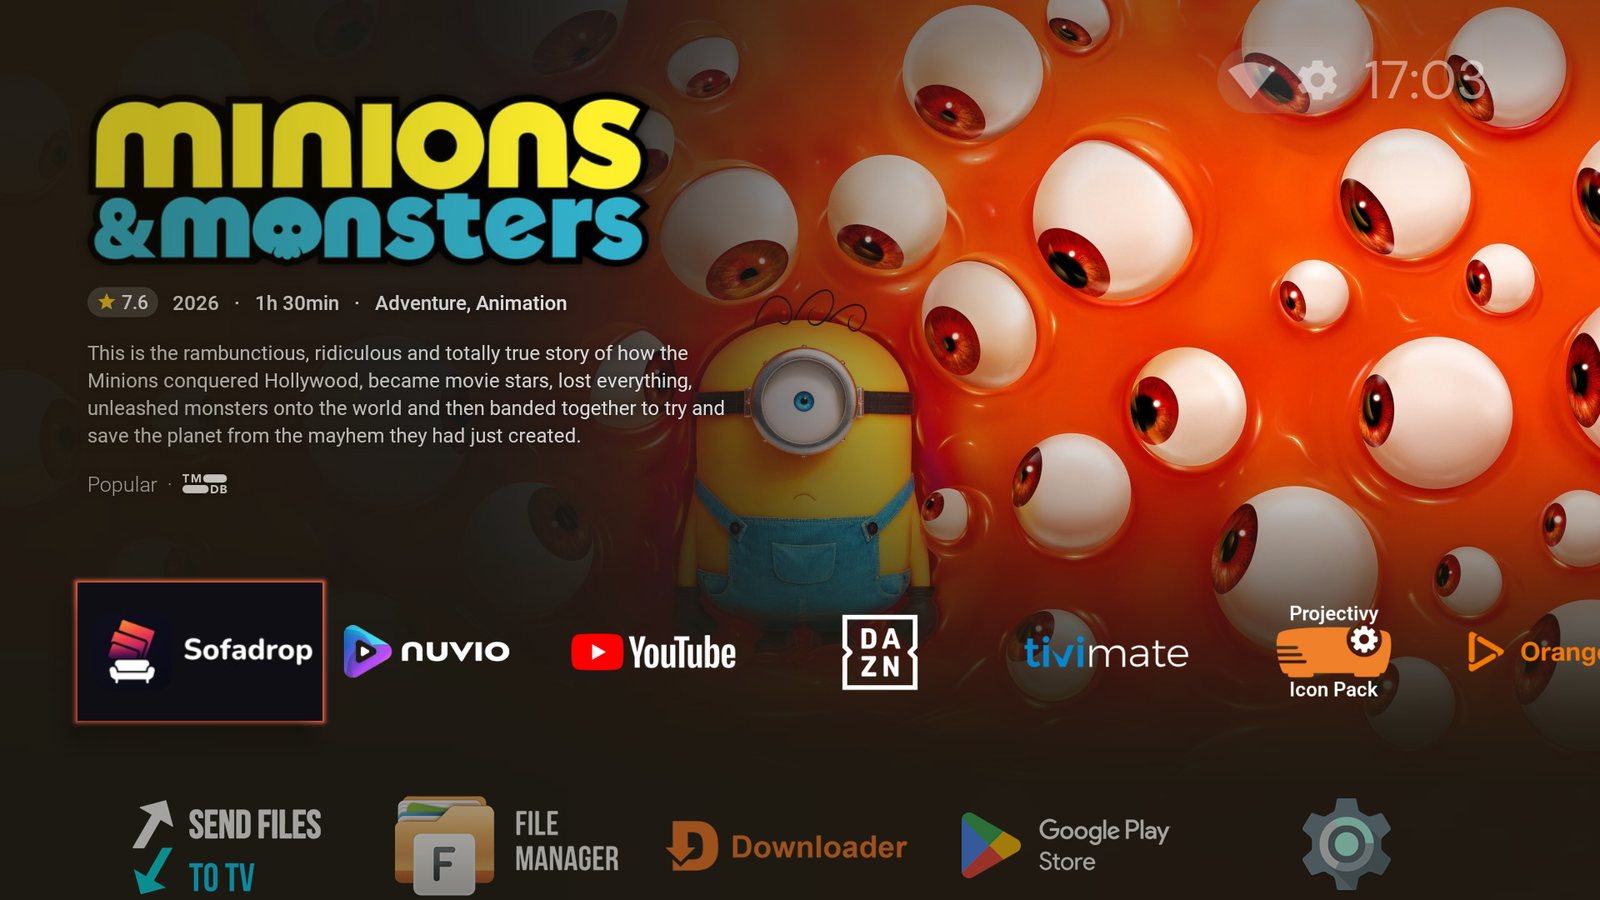
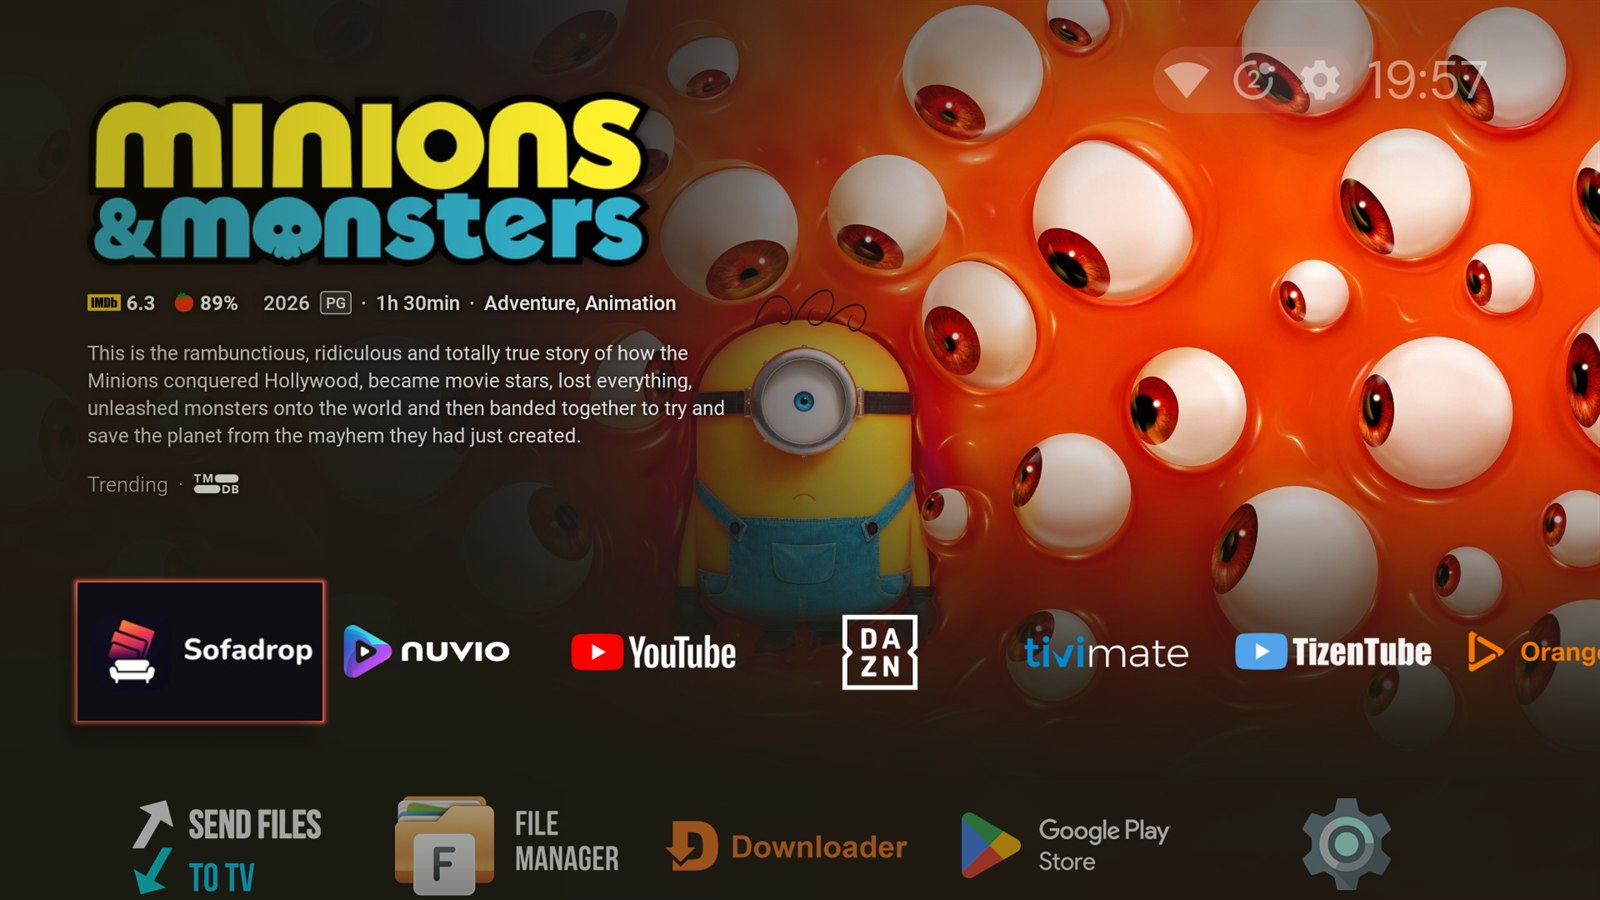
README: new screenshots for 1.1.0
Home screen captures from the Chromecast (Spider-Man, Minions & Monsters,
The Super Mario Galaxy Movie, Mutiny) with the default-like settings, the
settings screen, and the wallpapers rendered by ReadmeImagesTest with the
ratings that need no account (IMDb and Trakt).

diff --git a/app/src/androidTest/java/com/rfmarcos/sofadrop/ReadmeImagesTest.kt b/app/src/androidTest/java/com/rfmarcos/sofadrop/ReadmeImagesTest.kt
@@ -1,0 +1,61 @@
+package com.rfmarcos.sofadrop
+
+import android.graphics.Bitmap
+import androidx.test.ext.junit.runners.AndroidJUnit4
+import androidx.test.platform.app.InstrumentationRegistry
+import org.junit.Assert.assertNotNull
+import org.junit.Test
+import org.junit.runner.RunWith
+import java.io.File
+
+/**
+ * The wallpapers of the README (docs/images/wallpaper_*.jpg) at 1600x900, into files/readme/, with the ratings
+ * that need no account (IMDb from its dataset, Trakt with the app's client id).
+ */
+@RunWith(AndroidJUnit4::class)
+class ReadmeImagesTest {
+
+    @Test
+    fun rendersReadmeWallpapers() {
+        val context = InstrumentationRegistry.getInstrumentation().targetContext
+        Settings.init(context)
+        Settings.regionOverride = ""
+        Settings.style = Settings.STYLE_FULL
+        Settings.titleLanguage = Settings.LANGUAGE_AUTO
+        Settings.synopsisLanguage = Settings.LANGUAGE_AUTO
+        Settings.headerOrder = Settings.HEADER_BLOCKS
+        Settings.headerHidden = emptySet()
+        Settings.minRatings = 2
+        Settings.overviewLines = 4
+        Settings.showProviders = true
+        Settings.showSource = true
+        Settings.sourceFallback = true
+        Settings.ratingSources = listOf(RatingSource.IMDB, RatingSource.TRAKT)
+        val dir = File(context.filesDir, "readme").apply { deleteRecursively(); mkdirs() }
+        val trendingMovies = Sources.TMDB.first { it.key == "tmdb:trending_movies" }
+
+        fun save(name: String, language: String, ref: TitleRef, cast: Boolean = false, change: (WallpaperInfo) -> WallpaperInfo = { it }) {
+            Settings.language = language
+            Settings.showCast = cast
+            val factory = WallpaperFactory(context, 1920)
+            val info = factory.build(ref, source = trendingMovies)
+            assertNotNull(info)
+            val bitmap = factory.render(change(info!!))
+            val scaled = Bitmap.createScaledBitmap(bitmap, 1600, 900, true)
+            File(dir, "$name.jpg").outputStream().use { scaled.compress(Bitmap.CompressFormat.JPEG, 88, it) }
+        }
+
+        try {
+            // Not released yet: no ratings, so the cast row and the list it came from
+            save("wallpaper_en_avengers", "en-US", TitleRef(MediaType.MOVIE, 1003596), cast = true)
+            save("wallpaper_en_watched", "en-US", TitleRef(MediaType.MOVIE, 1339713)) { it.copy(watchStatus = WatchStatus.Watched) }
+            save("wallpaper_en_streaming", "en-US", TitleRef(MediaType.TV, 1416))
+            save("wallpaper_es_avatar", "es-ES", TitleRef(MediaType.MOVIE, 980431))
+            save("wallpaper_es_mandalorian", "es-ES", TitleRef(MediaType.MOVIE, 1228710))
+        } finally {
+            Settings.language = "en-US"
+            Settings.showCast = false
+            Settings.ratingSources = listOf(RatingSource.TMDB)
+        }
+    }
+}

diff --git a/README.md b/README.md
@@ -26,12 +26,12 @@ Sofadrop is a wallpaper plugin for [Projectivy Launcher](https://github.com/spoc
 
 | | |
 |---|---|
-| ![Moana on Projectivy's home screen](docs/images/projectivy_home_moana.jpg) | ![Minions & Monsters on Projectivy's home screen](docs/images/projectivy_home_minions.jpg) |
-| ![Clayface on Projectivy's home screen](docs/images/projectivy_home_clayface.jpg) | ![Avengers: Doomsday](docs/images/wallpaper_en_avengers.jpg) |
+| ![Minions & Monsters on Projectivy's home screen](docs/images/projectivy_home_minions.jpg) | ![The Super Mario Galaxy Movie on Projectivy's home screen](docs/images/projectivy_home_mario.jpg) |
+| ![Mutiny on Projectivy's home screen](docs/images/projectivy_home_mutiny.jpg) | ![Avengers: Doomsday](docs/images/wallpaper_en_avengers.jpg) |
 | ![A title marked as watched from your Trakt history](docs/images/wallpaper_en_watched.jpg) | ![Streaming services available in your country](docs/images/wallpaper_en_streaming.jpg) |
 | ![Avatar: Aang, in Spanish](docs/images/wallpaper_es_avatar.jpg) | ![The Mandalorian & Grogu, in Spanish](docs/images/wallpaper_es_mandalorian.jpg) |
 
-*Titles watched on Trakt or Simkl get a badge (or can be hidden), the footer shows where to watch each title, and wallpapers come in six languages (Spanish above).*
+*Ratings come with each platform's logo (IMDb and Trakt above, no account needed; Rotten Tomatoes, Metacritic and more with MDBList), next to the age rating. Titles watched on Trakt or Simkl get a badge (or can be hidden), the footer shows where to watch each title, the cast can go under the synopsis, and wallpapers come in 19 languages (Spanish above).*
 
 ## 📥 Installation
 
